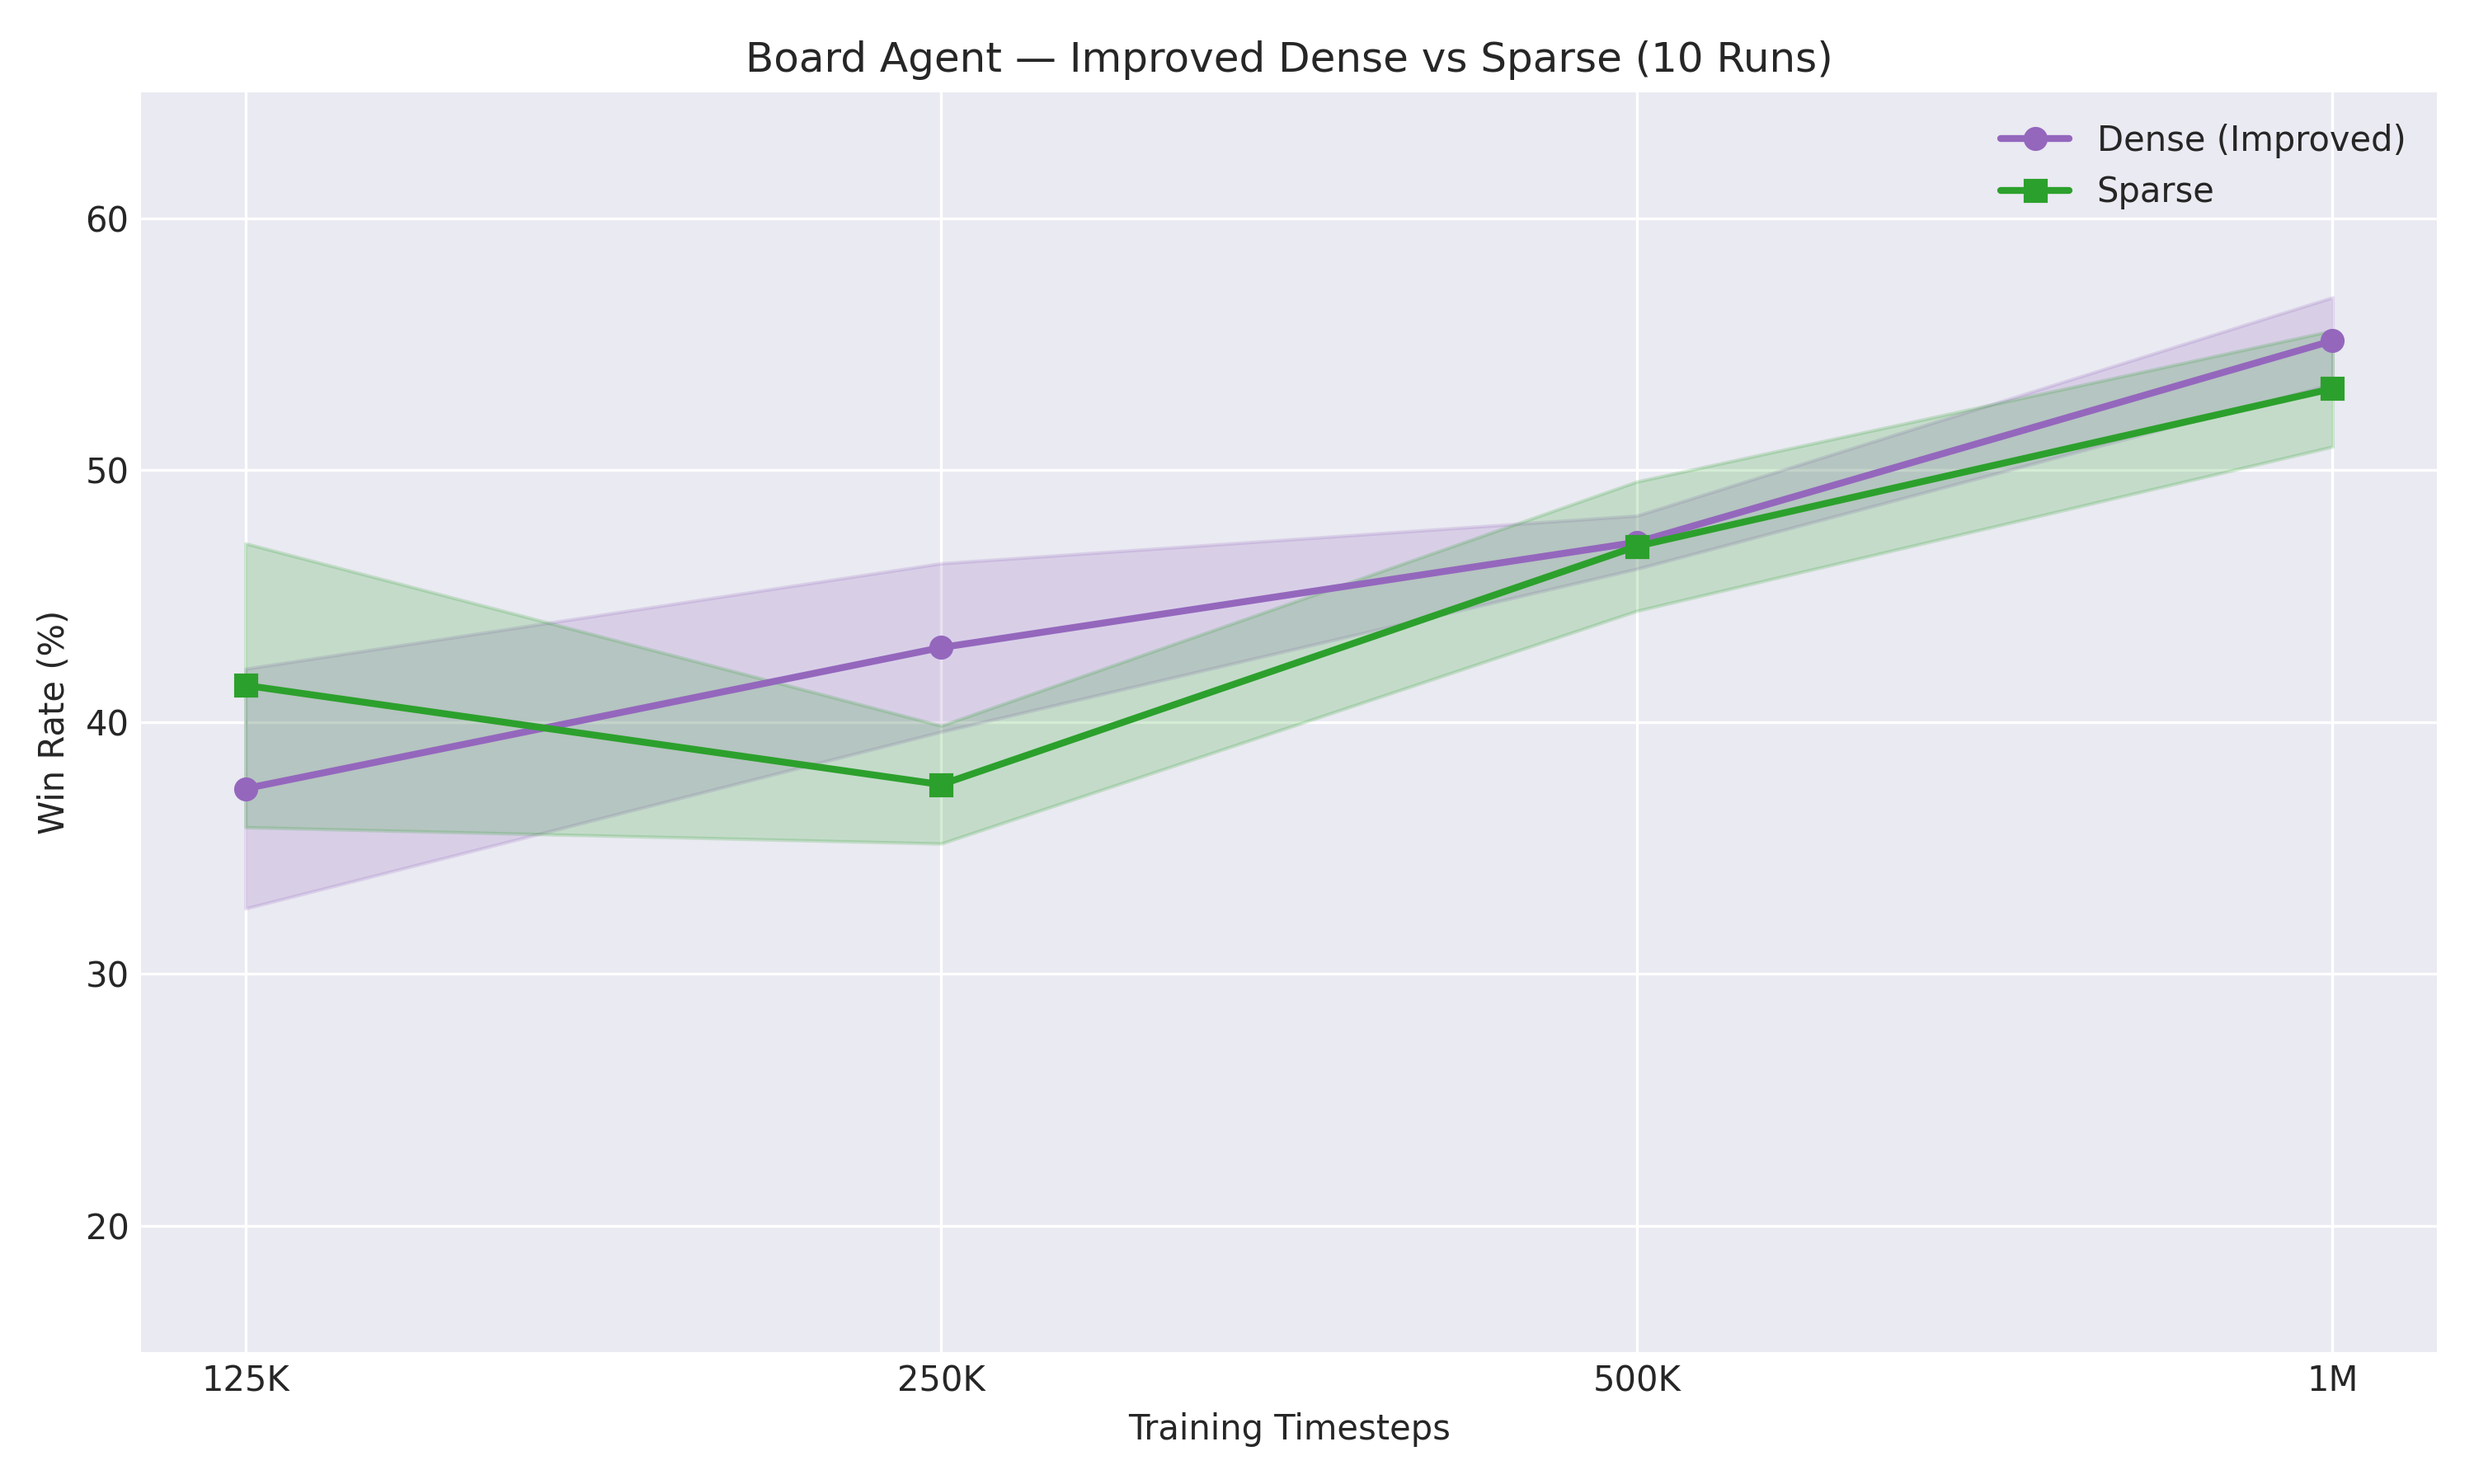
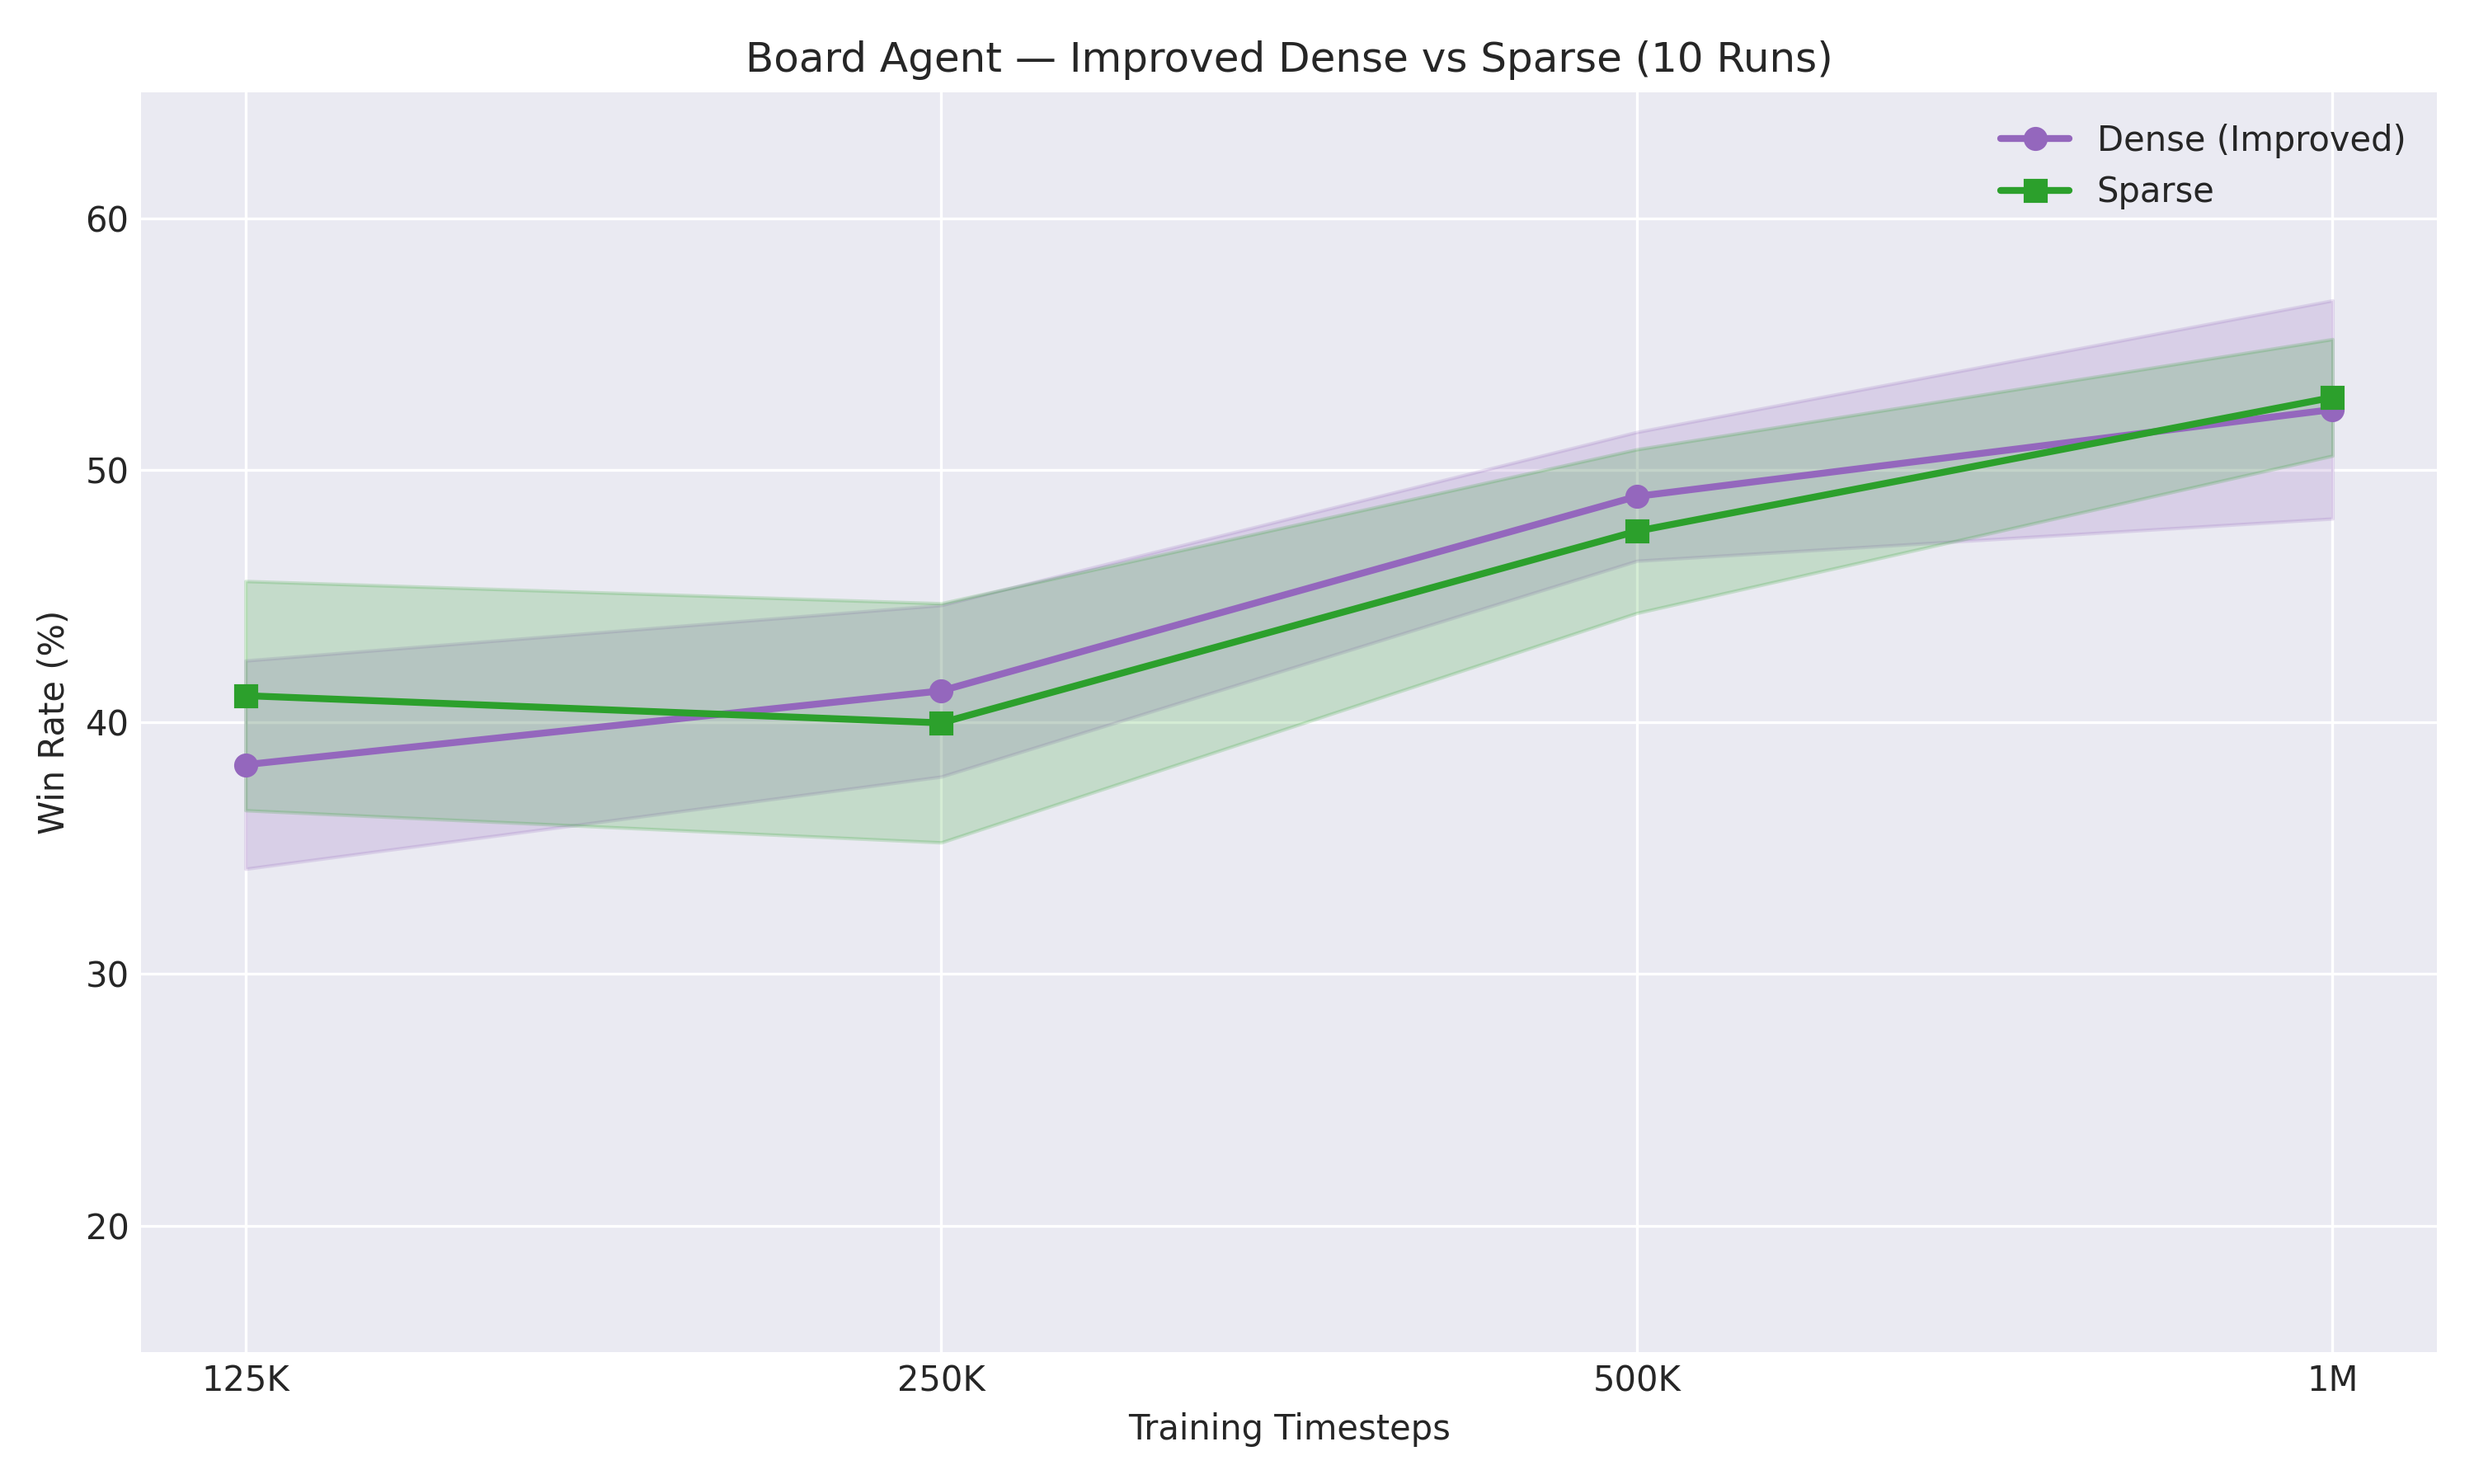
updated graphs

Changed region(s): [[0.093, 0.2178, 0.961, 0.6222]]

diff --git a/ppo_agent/graphs.py b/ppo_agent/graphs.py
@@ -302,38 +302,38 @@ plt.savefig("bots/graphs_1/mixed_vs_vector_box.png", dpi=300)
 #===========================================================
 # Board vs Numeric
 #===========================================================
-numeric_sparse_5 = {
-    125000: [38.00, 38.20, 44.50, 40.20, 36.30],
-    250000: [41.10, 32.80, 42.50, 47.10, 40.20],
-    500000: [47.00, 42.10, 47.00, 43.70, 38.70],
-    1000000: [48.00, 46.00, 46.00, 46.30, 40.00],
+numeric_sparse = {
+    125000: [38.00, 38.20, 44.50, 40.20, 36.30, 31.30, 39.90, 23.20, 38.50, 38.50],
+    250000: [41.10, 32.80, 42.50, 47.10, 40.20, 37.60, 35.70, 50.50, 44.50, 42.80],
+    500000: [47.00, 42.10, 47.00, 43.70, 38.70, 50.70, 36.40, 45.10, 47.40, 43.60],
+    1000000: [48.00, 46.00, 46.00, 46.30, 40.00, 45.70, 48.90, 53.00, 54.30, 41.90],
 }
 
-numeric_alt_dense_5 = {
-    125000: [21.70, 38.00, 46.80, 20.90, 42.40],
-    250000: [45.00, 40.50, 46.10, 42.70, 42.00],
-    500000: [51.70, 42.10, 51.10, 39.40, 45.40],
-    1000000: [46.90, 41.20, 39.80, 51.10, 57.30],
+numeric_alt_dense = {
+    125000: [21.70, 38.00, 46.80, 20.90, 42.40, 34.70, 33.40, 38.40, 29.80, 25.50],
+    250000: [45.00, 40.50, 46.10, 42.70, 42.00, 47.40, 42.70, 52.40, 33.70, 43.70],
+    500000: [51.70, 42.10, 51.10, 39.40, 45.40, 46.50, 40.00, 31.50, 40.60, 47.70],
+    1000000: [46.90, 41.20, 39.80, 51.10, 57.30, 49.70, 47.90, 54.20, 51.60, 49.80],
 }
 
-board_sparse_5 = {
-    125000: [39.60, 36.70, 36.40, 42.90, 51.70],
-    250000: [36.90, 35.60, 41.70, 38.20, 35.20],
-    500000: [46.70, 47.60, 43.10, 46.40, 51.11],
-    1000000: [51.30, 50.50, 57.00, 53.10, 54.30],
+board_sparse = {
+    125000: [39.60, 36.70, 36.40, 42.90, 51.70, 45.30, 36.90, 37.70, 41.30, 42.00],
+    250000: [36.90, 35.60, 41.70, 38.20, 35.20, 37.00, 52.40, 42.00, 40.20, 40.50],
+    500000: [46.70, 47.60, 43.10, 46.40, 51.10, 46.80, 44.30, 44.80, 53.80, 51.20],
+    1000000: [51.30, 50.50, 57.00, 53.10, 54.30, 55.20, 50.30, 49.70, 52.60, 54.90],
 }
 
-board_alt_dense_5 = {
-    125000: [43.40, 36.80, 41.10, 29.60, 35.90],
-    250000: [45.90, 38.60, 43.10, 39.90, 47.30],
-    500000: [47.90, 46.80, 46.90, 48.60, 45.50],
-    1000000: [56.60, 51.80, 56.00, 55.30, 56.00],
+board_alt_dense = {
+    125000: [43.40, 36.80, 41.10, 29.60, 35.90, 38.10, 35.70, 37.50, 40.20, 44.80],
+    250000: [45.90, 38.60, 43.10, 39.90, 47.30, 43.20, 36.60, 37.40, 41.40, 39.00],
+    500000: [47.90, 46.80, 46.90, 48.60, 45.50, 52.10, 51.70, 47.40, 48.90, 53.80],
+    1000000: [56.60, 51.80, 56.00, 55.30, 56.00, 45.80, 57.70, 47.30, 51.20, 46.40],
 }
 
 
 # Board Agent: Improved Dense vs Sparse (10 runs)
-board_dense_avg, board_dense_std = avg_std(board_alt_dense_5)
-board_sparse_avg, board_sparse_std = avg_std(board_sparse_5)
+board_dense_avg, board_dense_std = avg_std(board_alt_dense)
+board_sparse_avg, board_sparse_std = avg_std(board_sparse)
 
 plt.figure(figsize=(10,6))
 plt.plot(labels, board_dense_avg, marker='o', color=C4, label="Dense (Improved)", linewidth=2)
@@ -359,8 +359,8 @@ plt.savefig("bots/graphs_2/board_dense_vs_sparse.png", dpi=300)
 
 
 # Numeric Agent: Improved Dense vs Sparse (10 runs)
-numeric_dense_avg, numeric_dense_std = avg_std(numeric_alt_dense_5)
-numeric_sparse_avg, numeric_sparse_std = avg_std(numeric_sparse_5)
+numeric_dense_avg, numeric_dense_std = avg_std(numeric_alt_dense)
+numeric_sparse_avg, numeric_sparse_std = avg_std(numeric_sparse)
 
 plt.figure(figsize=(10,6))
 plt.plot(labels, numeric_dense_avg, marker='o', color=C4, label="Dense (Improved)", linewidth=2)
@@ -496,16 +496,16 @@ plt.savefig("bots/graphs_2/board_vs_numeric_subplots.png", dpi=300)
 # Board vs Numeric — final timestep (1M)
 agents_bn = ['Board Dense', 'Board Sparse', 'Numeric Dense', 'Numeric Sparse']
 means_bn = [
-    np.mean(board_alt_dense_5[final_t]),
-    np.mean(board_sparse_5[final_t]),
-    np.mean(numeric_alt_dense_5[final_t]),
-    np.mean(numeric_sparse_5[final_t])
+    np.mean(board_alt_dense[final_t]),
+    np.mean(board_sparse[final_t]),
+    np.mean(numeric_alt_dense[final_t]),
+    np.mean(numeric_sparse[final_t])
 ]
 stds_bn = [
-    np.std(board_alt_dense_5[final_t]),
-    np.std(board_sparse_5[final_t]),
-    np.std(numeric_alt_dense_5[final_t]),
-    np.std(numeric_sparse_5[final_t])
+    np.std(board_alt_dense[final_t]),
+    np.std(board_sparse[final_t]),
+    np.std(numeric_alt_dense[final_t]),
+    np.std(numeric_sparse[final_t])
 ]
 
 plt.figure(figsize=(10,6))
@@ -517,10 +517,10 @@ plt.tight_layout()
 plt.savefig("bots/graphs_2/board_vs_numeric_bar.png", dpi=300)
 
 data_bn = [
-    board_alt_dense_5[final_t],
-    board_sparse_5[final_t],
-    numeric_alt_dense_5[final_t],
-    numeric_sparse_5[final_t]
+    board_alt_dense[final_t],
+    board_sparse[final_t],
+    numeric_alt_dense[final_t],
+    numeric_sparse[final_t]
 ]
 
 plt.figure(figsize=(10,6))
@@ -554,10 +554,10 @@ all_means = [
     np.mean(mixed_sparse_10[final_t]),
     np.mean(vector_dense_10[final_t]),
     np.mean(vector_sparse_10[final_t]),
-    np.mean(board_alt_dense_5[final_t]),
-    np.mean(board_sparse_5[final_t]),
-    np.mean(numeric_alt_dense_5[final_t]),
-    np.mean(numeric_sparse_5[final_t])
+    np.mean(board_alt_dense[final_t]),
+    np.mean(board_sparse[final_t]),
+    np.mean(numeric_alt_dense[final_t]),
+    np.mean(numeric_sparse[final_t])
 ]
 
 all_stds = [
@@ -565,10 +565,10 @@ all_stds = [
     np.std(mixed_sparse_10[final_t]),
     np.std(vector_dense_10[final_t]),
     np.std(vector_sparse_10[final_t]),
-    np.std(board_alt_dense_5[final_t]),
-    np.std(board_sparse_5[final_t]),
-    np.std(numeric_alt_dense_5[final_t]),
-    np.std(numeric_sparse_5[final_t])
+    np.std(board_alt_dense[final_t]),
+    np.std(board_sparse[final_t]),
+    np.std(numeric_alt_dense[final_t]),
+    np.std(numeric_sparse[final_t])
 ]
 
 # Color mapping: Dense vs Sparse
@@ -589,10 +589,10 @@ all_data = [
     mixed_sparse_10[final_t],
     vector_dense_10[final_t],
     vector_sparse_10[final_t],
-    board_alt_dense_5[final_t],
-    board_sparse_5[final_t],
-    numeric_alt_dense_5[final_t],
-    numeric_sparse_5[final_t]
+    board_alt_dense[final_t],
+    board_sparse[final_t],
+    numeric_alt_dense[final_t],
+    numeric_sparse[final_t]
 ]
 
 plt.figure(figsize=(12,6))
